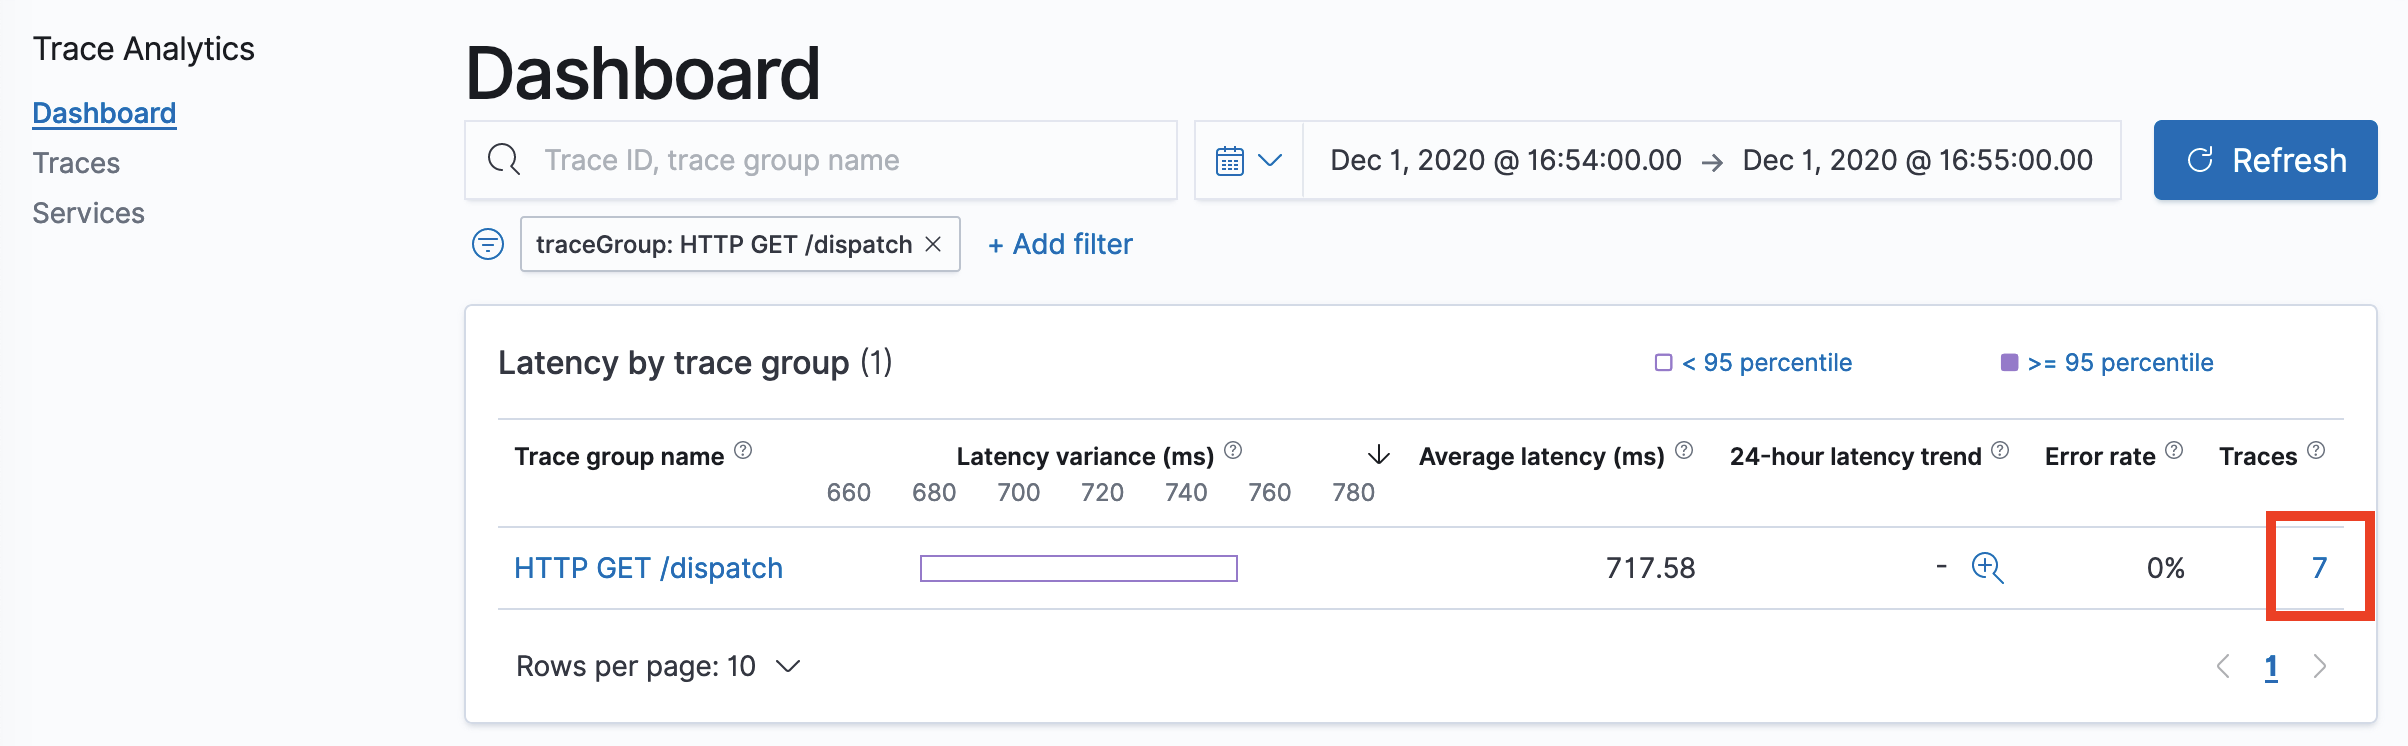
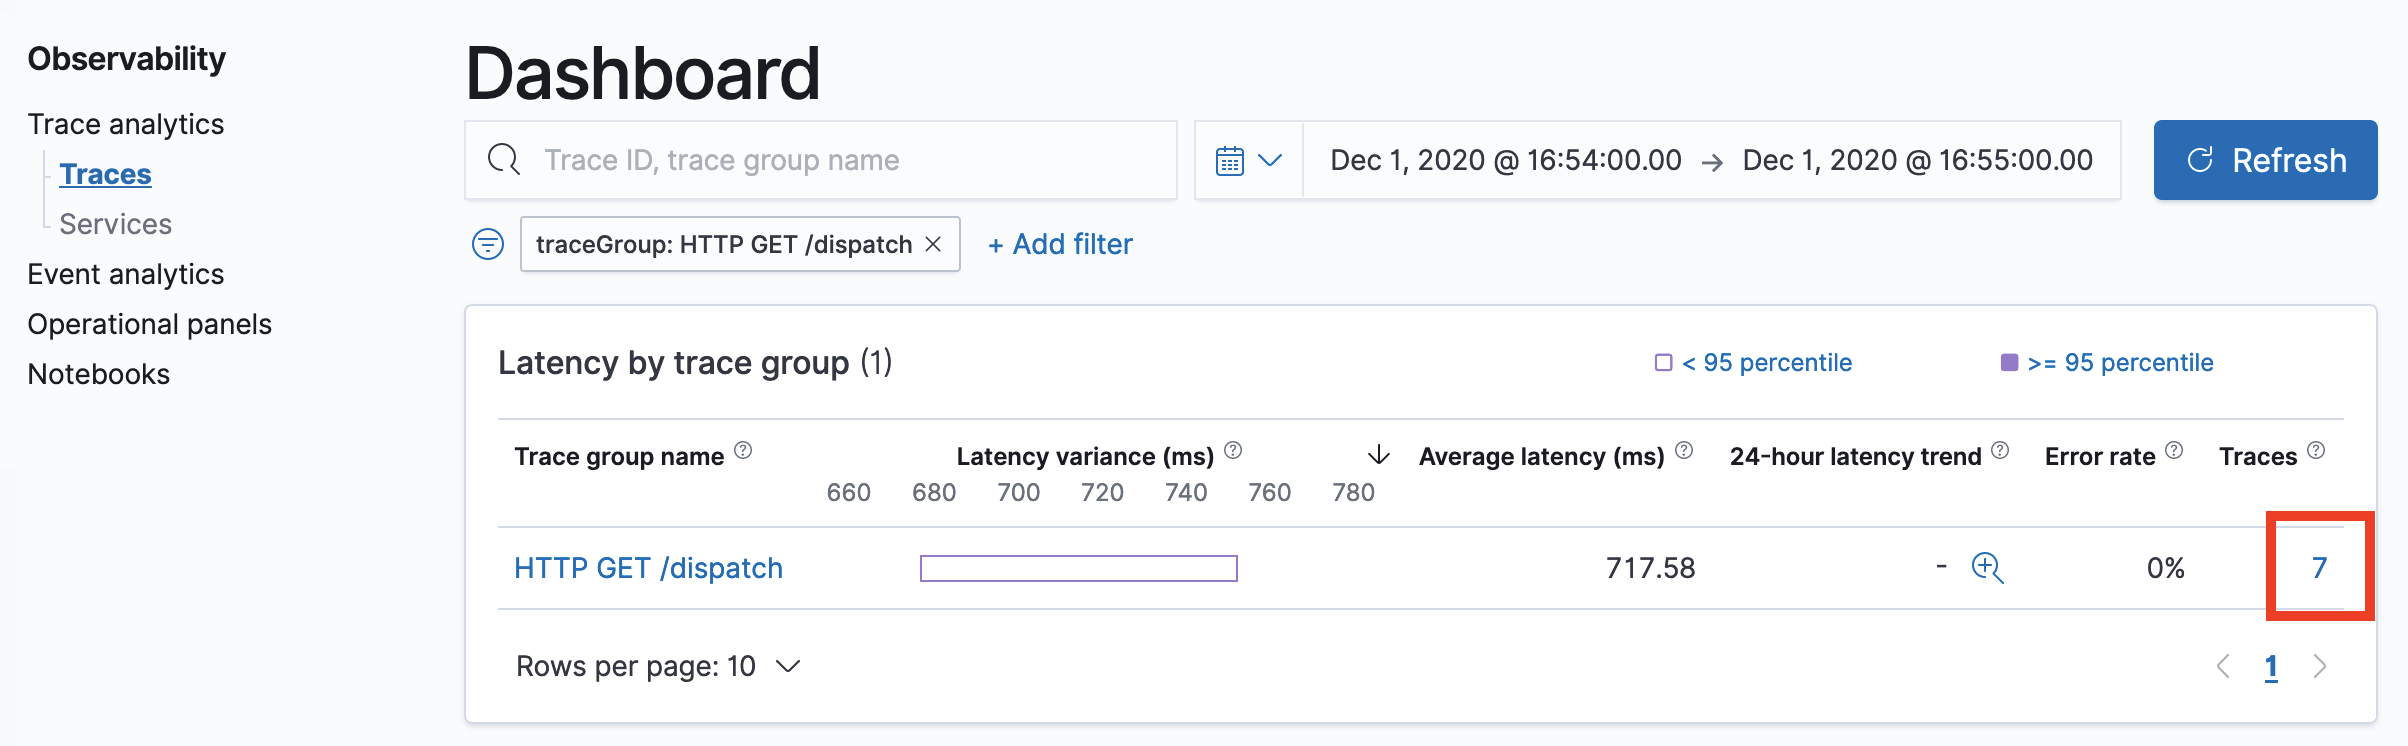
Added observability plugin

diff --git a/_observability-plugins/trace/get-started.md b/_observability-plugins/trace/get-started.md
@@ -20,9 +20,9 @@ OpenSearch Trace Analytics consists of two components---Data Prepper and the Tra
 
 1. The [OpenTelemetry Collector](https://opentelemetry.io/docs/collector/getting-started/) receives data from the application and formats it into OpenTelemetry data.
 
-1. [Data Prepper]({{site.url}}{{site.baseurl}}/monitoring-plugins/trace/data-prepper/) processes the OpenTelemetry data, transforms it for use in OpenSearch, and indexes it on an OpenSearch cluster.
+1. [Data Prepper]({{site.url}}{{site.baseurl}}/observability-plugins/trace/data-prepper/) processes the OpenTelemetry data, transforms it for use in OpenSearch, and indexes it on an OpenSearch cluster.
 
-1. The [Trace Analytics OpenSearch Dashboards plugin]({{site.url}}{{site.baseurl}}/monitoring-plugins/trace/ta-dashboards/) displays the data in near real-time as a series of charts and tables, with an emphasis on service architecture, latency, error rate, and throughput.
+1. The [Trace Analytics OpenSearch Dashboards plugin]({{site.url}}{{site.baseurl}}/observability-plugins/trace/ta-dashboards/) displays the data in near real-time as a series of charts and tables, with an emphasis on service architecture, latency, error rate, and throughput.
 
 
 ## Jaeger HotROD
@@ -80,4 +80,4 @@ curl -X GET -u 'admin:admin' -k 'https://localhost:9200/otel-v1-apm-span-000001/
 
 Navigate to `http://localhost:5601` in a web browser and choose **Trace Analytics**. You can see the results of your single click in the Jaeger HotROD web interface: the number of traces per API and HTTP method, latency trends, a color-coded map of the service architecture, and a list of trace IDs that you can use to drill down on individual operations.
 
-If you don't see your trace, adjust the timeframe in OpenSearch Dashboards. For more information on using the plugin, see [OpenSearch Dashboards plugin]({{site.url}}{{site.baseurl}}/monitoring-plugins/trace/ta-dashboards/).
+If you don't see your trace, adjust the timeframe in OpenSearch Dashboards. For more information on using the plugin, see [OpenSearch Dashboards plugin]({{site.url}}{{site.baseurl}}/observability-plugins/trace/ta-dashboards/).

diff --git a/_observability-plugins/event-analytics.md b/_observability-plugins/event-analytics.md
@@ -1,0 +1,33 @@
+---
+layout: default
+title: Event analytics
+nav_order: 10
+---
+
+# Event analytics
+
+Event analytics in observability is where you can use [Piped Processing Language]({{site.url}}{{site.baseurl}}/observability-plugins/ppl/index) (PPL) queries to build and view different visualizations of your data.
+
+## Get started with event analytics
+
+To get started, choose **Observability** in OpenSearch Dashboards, and then choose **Event analytics**. If you want to start exploring without adding any of your own data, choose **Add sample Events Data**, and Dashboards adds some sample visualizations you can interact with.
+
+## Build a query
+
+To generate custom visualizations, you must first specify a PPL query. OpenSearch Dashboards then automatically creates a visualization based on the results of your query.
+
+For example, the following PPL query returns a count of how many host addresses are currently in your data.
+
+```
+source = opensearch_dashboards_sample_data_logs | fields host | stats count()
+```
+
+By default, Dashboards shows results from the last 15 minutes of your data. To see data from a different timeframe, use the date and time selector.
+
+For more information about building PPL queries, see [Piped Processing Language]({{site.url}}{{site.baseurl}}/observability-plugins/ppl/index).
+
+## Save a visualization
+
+After Dashboards generates a visualization, you must save it if you want to return to it at a later time or if you want to add it to an [operational panel]({{site.url}}{{site.baseurl}}/observability-plugins/operational-panels).
+
+To save a visualization, expand the save dropdown menu next to **Run**, enter a name for your visualization, then choose **Save**. You can reopen any saved visualizations on the event analytics page.

diff --git a/_opensearch/data-streams.md b/_opensearch/data-streams.md
@@ -228,7 +228,7 @@ POST logs-redis/_rollover
 
 If you now perform a `GET` operation on the `logs-redis` data stream, you see that the generation ID is incremented from 1 to 2.
 
-You can also set up an [Index State Management (ISM) policy]({{site.url}}{{site.baseurl}}/im-plugin/ism/policies/) to automate the rollover process for the data stream.  
+You can also set up an [Index State Management (ISM) policy]({{site.url}}{{site.baseurl}}/im-plugin/ism/policies/) to automate the rollover process for the data stream.
 The ISM policy is applied to the backing indices at the time of their creation. When you associate a policy to a data stream, it only affects the future backing indices of that data stream.
 
 You also don’t need to provide the `rollover_alias` setting, because the ISM policy infers this information from the backing index.
@@ -262,4 +262,4 @@ You can use wildcards to delete more than one data stream.
 
 We recommend deleting data from a data stream using an ISM policy.
 
-You can also use [asynchronous search]({{site.url}}{{site.baseurl}}/search-plugins/async/index/) and [SQL]({{site.url}}{{site.baseurl}}/search-plugins/sql/index/) and [PPL]({{site.url}}{{site.baseurl}}/search-plugins/ppl/index/) to query your data stream directly. You can also use the security plugin to define granular permissions on the data stream name.
+You can also use [asynchronous search]({{site.url}}{{site.baseurl}}/search-plugins/async/index/) and [SQL]({{site.url}}{{site.baseurl}}/search-plugins/sql/index/) and [PPL]({{site.url}}{{site.baseurl}}/observability-plugins/ppl/index/) to query your data stream directly. You can also use the security plugin to define granular permissions on the data stream name.

diff --git a/_observability-plugins/index.md b/_observability-plugins/index.md
@@ -1,0 +1,22 @@
+---
+layout: default
+title: About Observability
+nav_order: 1
+has_children: false
+redirect_from:
+  - /observability-plugins/
+---
+
+# About Observability
+OpenSearch Dashboards
+{: .label .label-yellow :}
+
+The Observability plugins are a collection of plugins that let you visualize data-driven events by using Piped Processing Language to explore, discover, and query data stored in OpenSearch.
+
+Your experience of exploring data might differ, but if you're new to exploring data to create visualizations, we recommend trying a work flow like the following:
+
+1. Explore data over a certain timeframe using [Piped Processing Language]({{site.url}}{{site.baseurl}}/observability-plugins/ppl/index).
+1. Use [event analytics]({{site.url}}{{site.baseurl}}/observability-plugins/event-analytics) to turn data-driven events into visualizations.
+1. Create [operational panels]({{site.url}}{{site.baseurl}}/observability-plugins/plugins/operational-panels) and add visualizations to compare data the way you like.
+1. Use [trace analytics]({{site.url}}{{site.baseurl}}/observability-plugins/plugins/trace/index) to create traces and dive deep into your data.
+1. Leverage [notebooks]({{site.url}}{{site.baseurl}}/observability-plugins/plugins/notebooks) to combine different visualizations and code blocks that you can share with team members.

diff --git a/_observability-plugins/operational-panels.md b/_observability-plugins/operational-panels.md
@@ -1,0 +1,25 @@
+---
+layout: default
+title: Operational panels
+nav_order: 30
+---
+
+# Operational panels
+
+Operational panels in OpenSearch Dashboards are collections of visualizations generated using [Piped Processing Language]({{site.url}}{{site.baseurl}}/observability-plugins/ppl/index) (PPL) queries.
+
+## Get started with operational panels
+
+If you want to start using operational panels without adding any data, expand the **Action** menu, choose **Add samples**, and Dashboards adds a set of operational panels with saved visualizations for you to explore.
+
+## Create an operational panel
+
+To create an operational panel and add visualizations:
+
+1. From the **Add Visualization** dropdown menu, choose **Select Existing Visualization** or **Create New Visualization**, which takes you to the [event analytics]({{site.url}}{{site.baseurl}}/observability-plugins/event-analytics) explorer, where you can use PPL to create visualizations.
+1. If you're adding already existing visualizations, choose a visualization from the dropdown menu.
+1. Choose **Add**.
+
+![Sample operational panel]({{site.url}}{{site.baseurl}}/images/operational-panel.png)
+
+To search for a particular visualization in your operation panels, use PPL queries to search for data you've already added to your panel.

diff --git a/_observability-plugins/trace/data-prepper.md b/_observability-plugins/trace/data-prepper.md
@@ -105,7 +105,7 @@ service-map-pipeline:
         trace_analytics_service_map: true
 ```
 
-To learn more, see the [Data Prepper configuration reference]({{site.url}}{{site.baseurl}}/monitoring-plugins/trace/data-prepper-reference/).
+To learn more, see the [Data Prepper configuration reference]({{site.url}}{{site.baseurl}}/observability-plugins/trace/data-prepper-reference/).
 
 ## Configure the Data Prepper server
 Data Prepper itself provides administrative HTTP endpoints such as `/list` to list pipelines and `/metrics/prometheus` to provide Prometheus-compatible metrics data. The port which serves these endpoints, as well as TLS configuration, is specified by a separate YAML file. Example:

diff --git a/_observability-plugins/trace/data-prepper-reference.md b/_observability-plugins/trace/data-prepper-reference.md
@@ -7,7 +7,7 @@ nav_order: 25
 
 # Data Prepper configuration reference
 
-This page lists all supported Data Prepper sources, buffers, preppers, and sinks, along with their associated options. For example configuration files, see [Data Prepper]({{site.url}}{{site.baseurl}}/monitoring-plugins/trace/data-prepper/).
+This page lists all supported Data Prepper sources, buffers, preppers, and sinks, along with their associated options. For example configuration files, see [Data Prepper]({{site.url}}{{site.baseurl}}/observability-plugins/trace/data-prepper/).
 
 
 ## Data Prepper server options

diff --git a/_observability-plugins/ppl/index.md b/_observability-plugins/ppl/index.md
@@ -1,7 +1,7 @@
 ---
 layout: default
 title: Piped processing language
-nav_order: 42
+nav_order: 40
 has_children: true
 has_toc: false
 redirect_from:
@@ -52,9 +52,9 @@ search source=accounts
 
 firstname | lastname |
 :--- | :--- |
-Amber       | Duke     
-Hattie      | Bond     
-Nanette     | Bates    
-Dale        | Adams    
+Amber       | Duke
+Hattie      | Bond
+Nanette     | Bates
+Dale        | Adams
 
 ![PPL query workbench]({{site.url}}{{site.baseurl}}/images/ppl.png)

diff --git a/_observability-plugins/trace/index.md b/_observability-plugins/trace/index.md
@@ -1,11 +1,9 @@
 ---
 layout: default
 title: Trace analytics
-nav_order: 48
+nav_order: 60
 has_children: true
 has_toc: false
-redirect_from:
-  - /monitoring-plugins/trace/
 ---
 
 # Trace Analytics
